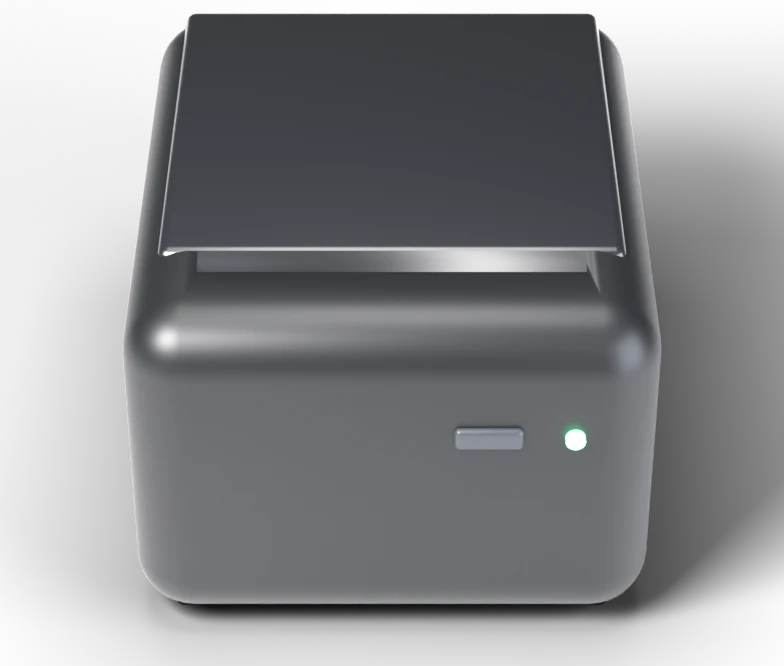
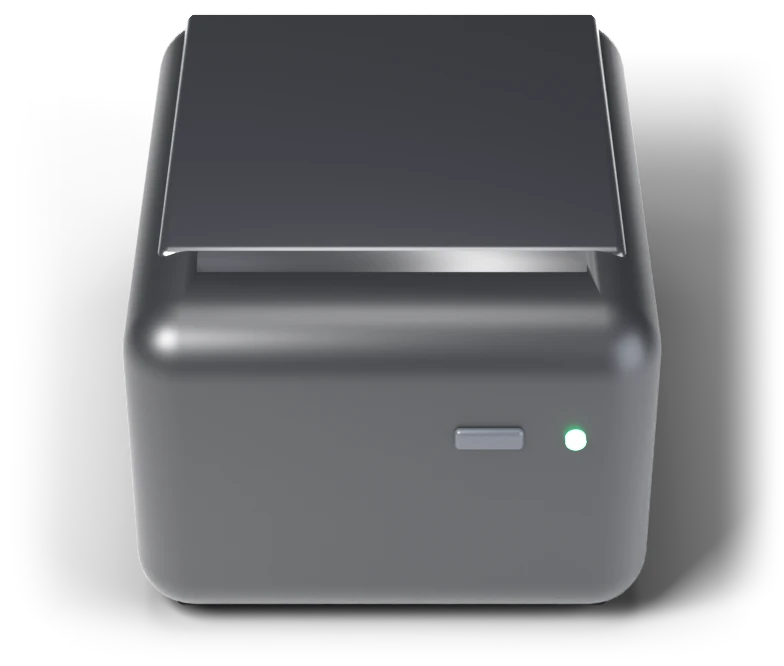
첫 화면 프린터 렌더의 바닥 그림자 정리, 휴대폰 폭 크기 조정
- media/printer/clean_alpha.py: 바닥 잡음 알파 제거, 가장자리로 갈수록 그림자를 0으로
- CSS 마스크 제거(본체가 뿌옇게 보이고 이음매가 생기던 문제)
- 휴대폰 폭: 프린터 460px, 종이 222px, 무대를 화면 끝까지 넓혀 그림자가 잘리는 선을 없앰

Changed region(s): [[0.1837, 0.9009, 0.8265, 1.0], [0.9184, 0.1201, 1.0, 0.9009]]

diff --git a/app/web/style.css b/app/web/style.css
@@ -80,10 +80,8 @@ main { padding-bottom: 32px; }
 .thermal-paper.done .marker.m1 { transition-delay: .7s; transform: rotate(.6deg) scaleX(1); }
 .pos3d { position: absolute; left: 50%; bottom: 6px; width: 640px; aspect-ratio: 784 / 666; transform: translateX(-50%); }
 .pos3d > img { position: absolute; inset: 0; width: 100%; height: 100%; user-select: none; -webkit-user-drag: none; }
-/* 렌더 바닥 그림자가 이미지 끝에서 잘려 보이지 않도록 가장자리를 타원으로 지운다 */
-.pos3d > img { -webkit-mask-image: radial-gradient(ellipse 50% 46% at 50% 62%, #000 62%, transparent 100%); mask-image: radial-gradient(ellipse 50% 46% at 50% 62%, #000 62%, transparent 100%); }
 .pos-back { z-index: 1; }
-.pos-front { z-index: 3; clip-path: inset(40.8% 16.5% 50% 16.5%); }   /* 출구 앞 가장자리 아래 좁은 띠만: 종이 아랫단을 가리고 그림자는 겹치지 않게 */
+.pos-front { z-index: 3; clip-path: inset(40.8% 16.5% 50% 16.5%); }   /* 출구 앞 가장자리 아래 본체 띠만 앞에 둔다(종이 아랫단을 가림) */
 .paper-wrap { position: absolute; left: 50%; bottom: 58.6%; width: 286px; height: 620px; margin-left: -143px; z-index: 2; }
 .pos3d:has(.feeding) > img { animation: buzz .09s linear infinite; }
 @keyframes buzz { 50% { transform: translateY(.6px); } }
@@ -238,9 +236,10 @@ a:hover { text-decoration-color: var(--ink); }
   .topbar { height: auto; padding: 14px 16px; flex-wrap: wrap; }
   .stepper li { padding: 5px 9px 5px 6px; }
   .hero-title { font-size: 2.6rem; }
-  .hero-stage { height: 590px; margin-top: 8px; overflow: hidden; }
-  .pos3d { width: 520px; }
-  .paper-wrap { width: 232px; margin-left: -116px; height: 500px; }
+  .hero-stage { height: 590px; margin: 8px -16px 0; overflow: hidden; }   /* 좌우 여백까지 넓혀 그림자가 화면 끝에서 잘리게 */
+  .hero-replay { right: 16px; }
+  .pos3d { width: 460px; }
+  .paper-wrap { width: 222px; margin-left: -111px; height: 500px; }
   .stepper li { font-size: .76rem; padding: 4px 8px 4px 4px; gap: 4px; }
   .stepper li span { width: 18px; height: 18px; }
   .mark { font-size: .98rem; }

diff --git a/app/web/index.html b/app/web/index.html
@@ -5,7 +5,7 @@
 <meta name="viewport" content="width=device-width, initial-scale=1">
 <title>남는 돈 비교</title>
 <link rel="stylesheet" href="https://cdn.jsdelivr.net/gh/orioncactus/pretendard@v1.3.9/dist/web/variable/pretendardvariable-dynamic-subset.min.css">
-<link rel="stylesheet" href="style.css?v=20261121z7">
+<link rel="stylesheet" href="style.css?v=20261121zc">
   <link rel="icon" href="data:,">
 </head>
 <body>
@@ -37,9 +37,9 @@
       </div>
       <div class="hero-stage" aria-hidden="true">
         <div class="pos3d">
-          <img class="pos-back" src="img/pos_printer.webp" alt="" width="784" height="666">
+          <img class="pos-back" src="img/pos_printer.webp?v=2" alt="" width="784" height="666">
           <div class="paper-wrap" id="paperWrap"></div>
-          <img class="pos-front" src="img/pos_printer.webp" alt="" width="784" height="666">
+          <img class="pos-front" src="img/pos_printer.webp?v=2" alt="" width="784" height="666">
         </div>
         <button type="button" class="hero-replay" id="heroReplay">다시 출력</button>
       </div>

diff --git a/media/printer/clean_alpha.py b/media/printer/clean_alpha.py
@@ -1,0 +1,39 @@
+"""렌더(pos_printer.png)를 화면용으로 자르고 바닥 그림자의 투명도를 정리한다.
+
+실행: /Applications/Blender.app/Contents/MacOS/Blender -b -P media/printer/clean_alpha.py -- <입력 png> <출력 png>
+- 그림자만 받는 바닥이 화면 전체에 남기는 옅은 알파(약 1~4%)를 걷어 낸다.
+- 본체가 아닌 픽셀은 자른 영역의 가장자리에 가까울수록 알파를 0으로 줄인다(사각형 경계가 보이지 않게).
+자르는 영역(가로 308~1092, 세로 108~774)은 style.css 의 .pos3d 비율·출구 위치와 맞춰 두었다.
+"""
+import sys
+
+import bpy
+import numpy as np
+
+args = sys.argv[sys.argv.index("--") + 1:]
+src, dst = args[0], args[1]
+X0, Y0, CW, CH = 308, 108, 784, 666
+HAZE = 0.045        # 이보다 옅은 알파는 바닥 잡음으로 보고 지운다
+MARGIN = 70         # 가장자리에서 이 거리(px) 안쪽으로 그림자를 서서히 지운다
+
+img = bpy.data.images.load(src)
+w, h = img.size
+px = np.array(img.pixels[:], dtype=np.float32).reshape(h, w, 4)[::-1]   # 위가 0행
+crop = px[Y0:Y0 + CH, X0:X0 + CW].copy()
+a = crop[..., 3]
+body = a > 0.985
+
+yy, xx = np.mgrid[0:CH, 0:CW].astype(np.float32)
+edge = np.minimum.reduce([xx, CW - 1 - xx, yy, CH - 1 - yy])
+t = np.clip(edge / MARGIN, 0, 1)
+fade = t * t * (3 - 2 * t)
+
+soft = np.clip((a - HAZE) / (1 - HAZE), 0, 1) * fade
+crop[..., 3] = np.where(body, a, soft)
+
+out = bpy.data.images.new("clean", CW, CH, alpha=True)
+out.pixels[:] = crop[::-1].reshape(-1)
+out.filepath_raw = dst
+out.file_format = "PNG"
+out.save()
+print("CLEAN_DONE", dst, "body px", int(body.sum()))
